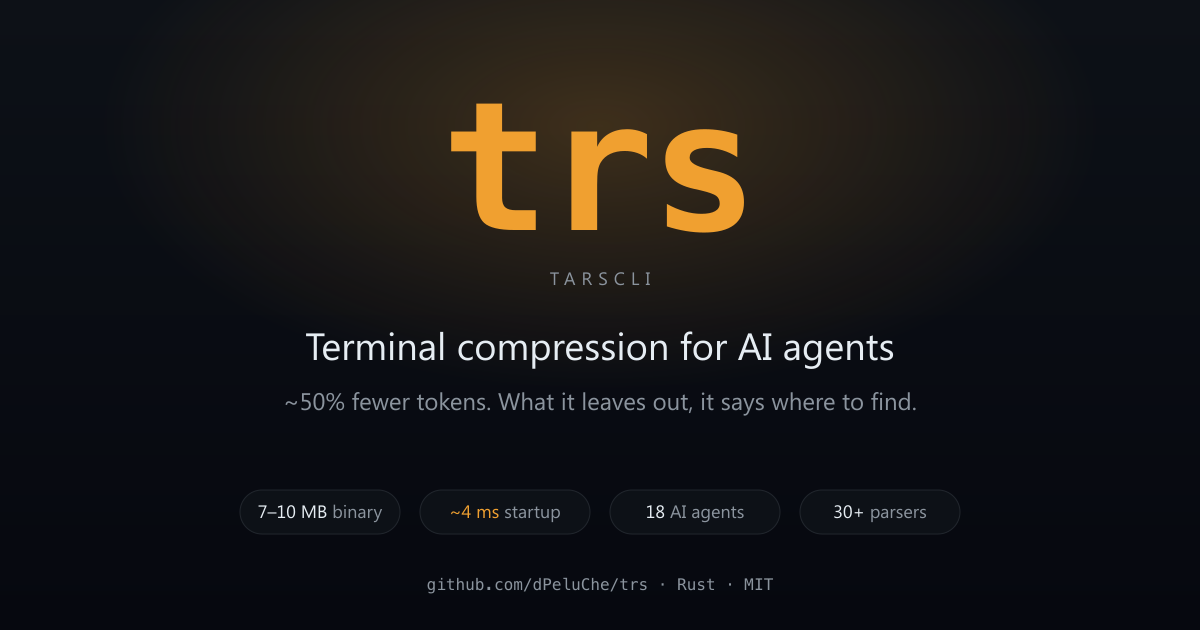
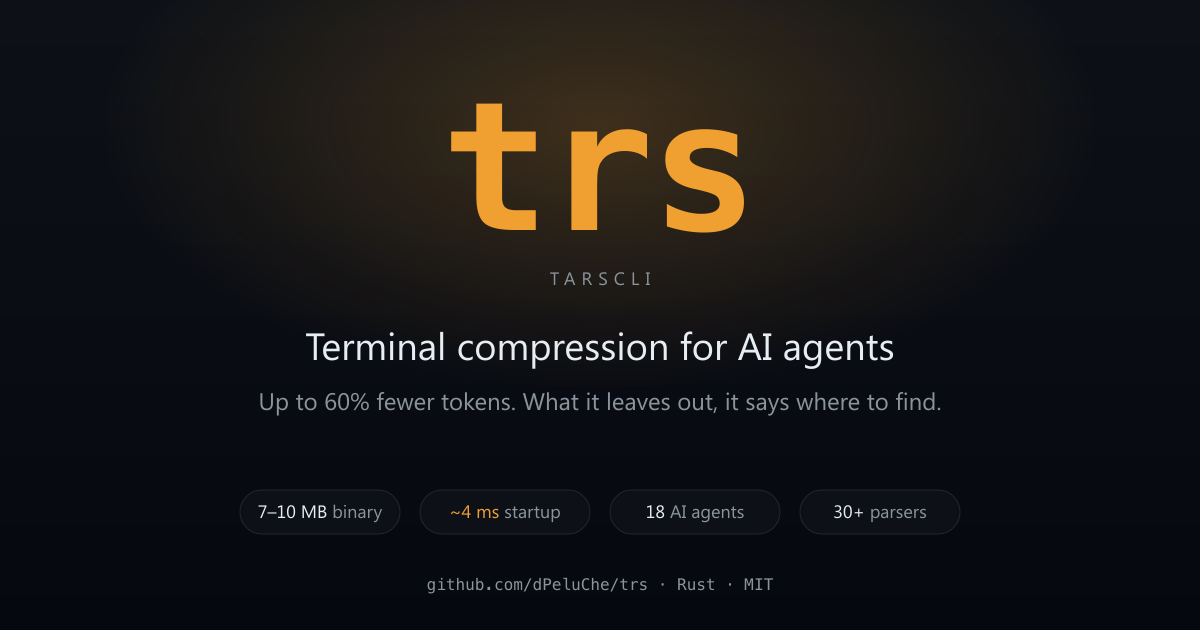
docs: state the savings as a ceiling, up to 60%
Claude-Session: https://claude.ai/code/session_01GkgHj56hmkHb2a1syzJwA7

Changed region(s): [[0.2158, 0.6032, 0.8017, 0.6635]]

diff --git a/docs/index.html b/docs/index.html
@@ -8,7 +8,7 @@
 
   <!-- Primary -->
   <title>trs (Token-Reducing Shell): Terminal compression for AI agents</title>
-  <meta name="description" content="Rust CLI that cuts ~50% of the tokens AI agents spend on terminal output, measured on real sessions. ~4 ms startup, zero Node overhead, install via curl/npm/cargo. Built-in project digest (trs ingest).">
+  <meta name="description" content="Rust CLI that cuts up to 60% of the tokens AI agents spend on terminal output, measured on real sessions. ~4 ms startup, zero Node overhead, install via curl/npm/cargo. Built-in project digest (trs ingest).">
   <meta name="keywords" content="trs, token-reducing shell, terminal, CLI, token reduction, AI agents, Claude Code, Gemini, LLM, compression, ingest, digest, Rust">
   <meta name="author" content="Iteris">
   <link rel="canonical" href="https://usetrs.dev/">
@@ -20,7 +20,7 @@
   <meta property="og:type" content="website">
   <meta property="og:site_name" content="trs (Token-Reducing Shell)">
   <meta property="og:title" content="trs: Terminal compression for AI agents">
-  <meta property="og:description" content="Rust CLI that cuts ~50% of the tokens AI agents spend on terminal output. Single 7-10 MB binary, ~4 ms startup, zero Node overhead. Hooks for Claude Code, Gemini, Cursor, OpenCode, Kilo, Pi, Droid, Codex, VS Code Copilot, Copilot CLI, Devin CLI, OpenClaw, Hermes, Zed, Devin Desktop (ex-Windsurf), Antigravity (IDE + CLI / agy).">
+  <meta property="og:description" content="Rust CLI that cuts up to 60% of the tokens AI agents spend on terminal output. Single 7-10 MB binary, ~4 ms startup, zero Node overhead. Hooks for Claude Code, Gemini, Cursor, OpenCode, Kilo, Pi, Droid, Codex, VS Code Copilot, Copilot CLI, Devin CLI, OpenClaw, Hermes, Zed, Devin Desktop (ex-Windsurf), Antigravity (IDE + CLI / agy).">
   <meta property="og:url" content="https://usetrs.dev/">
   <meta property="og:image" content="https://usetrs.dev/og-image.png">
   <meta property="og:image:alt" content="trs: Terminal compression for AI agents">
@@ -34,7 +34,7 @@
   <meta name="twitter:site" content="@dPeluChe">
   <meta name="twitter:creator" content="@dPeluChe">
   <meta name="twitter:title" content="trs: Terminal compression for AI agents">
-  <meta name="twitter:description" content="Rust CLI that cuts ~50% of the tokens AI agents spend on terminal output. Single 7-10 MB binary, ~4 ms startup.">
+  <meta name="twitter:description" content="Rust CLI that cuts up to 60% of the tokens AI agents spend on terminal output. Single 7-10 MB binary, ~4 ms startup.">
   <meta name="twitter:image" content="https://usetrs.dev/og-image.png">
   <meta name="twitter:image:alt" content="trs: Terminal compression for AI agents">
 
@@ -53,7 +53,7 @@
     "@type": "SoftwareApplication",
     "name": "trs (Token-Reducing Shell)",
     "alternateName": "trs",
-    "description": "Rust CLI that cuts ~50% of the tokens AI agents spend on terminal output, measured on real sessions. Native binary with parsers for git, cargo, npm, go, docker, gh, pytest, jest and more. Ships project digest via trs ingest.",
+    "description": "Rust CLI that cuts up to 60% of the tokens AI agents spend on terminal output, measured on real sessions. Native binary with parsers for git, cargo, npm, go, docker, gh, pytest, jest and more. Ships project digest via trs ingest.",
     "url": "https://usetrs.dev/",
     "applicationCategory": "DeveloperApplication",
     "operatingSystem": "macOS, Linux, Windows",
@@ -704,7 +704,7 @@
 
     <div class="hero-tagline">
       Terminal compression for AI agents.
-      <span class="muted">~50% fewer tokens on real agent commands. What it leaves out, it says where to find.</span>
+      <span class="muted">Up to 60% fewer tokens on real agent commands. What it leaves out, it says where to find.</span>
     </div>
 
     <div class="hero-cta">
@@ -1262,8 +1262,9 @@ commit 5e4a745d1f2ee6ec3a871dffdade1c2a9aaf69d5
   <div class="container">
     <h2>Compression reference</h2>
     <p class="section-intro">
-      The ~50% comes from real use: 58% over 84,325 commands since April, and
-      24% to 48% in recent windows, so it varies with what you run. The table
+      The 60% is a ceiling from real use: 58% over 84,325 commands since April,
+      24% to 48% in recent windows. It counts the output trs handles, not your
+      whole bill, and it varies with what you run. The table
       is a fixed benchmark of 38 command shapes taken
       from real agent sessions (trs v0.9.0, tokens counted with
       <code class="inline">o200k_base</code>).
@@ -1305,7 +1306,7 @@ commit 5e4a745d1f2ee6ec3a871dffdade1c2a9aaf69d5
         <div class="label">Node overhead (shell launcher)</div>
       </div>
       <div class="bench-card">
-        <div class="num">~50%</div>
+        <div class="num">&le;60%</div>
         <div class="label">fewer tokens on real agent commands</div>
       </div>
       <div class="bench-card">

diff --git a/docs/development/benchmarks/README.md b/docs/development/benchmarks/README.md
@@ -232,7 +232,7 @@ Read by eye before trusting a cell:
 | median command | 29% | |
 | commands cut by half or more | 11 of 38 | |
 
-### The ~50% on usetrs.dev
+### The "up to 60%" on usetrs.dev
 
 The site said ~70% until v0.8.10. That came from 2026-10-21 data, before `trs
 stats` left failed runs and outputs over 30 KB out of its totals. Measured
@@ -246,8 +246,9 @@ again on 2026-11-04, from the author's history:
 | 7 days | 1,370 | 35% |
 
 The windows swing with the work: a month of low-output commands saves little.
-~50% is the round figure for the history; quote the table above for a given
-command. With oversized outputs counted back in, 30 days is 58%, but a few
+"Up to 60%" is a ceiling from the history, on the output trs handles, not on
+the bill: see [`output-cost-findings.md`](../output-cost-findings.md). Quote the
+table above for a given command. With oversized outputs counted back in, 30 days is 58%, but a few
 huge outputs carry that number.
 
 ## trs alone on v0.8.9

diff --git a/AGENTS.md b/AGENTS.md
@@ -3,7 +3,7 @@
 ## What is trs
 
 A Rust CLI that transforms noisy terminal output into compact, structured signal.
-Cuts ~50% of the tokens AI agents spend on terminal output, measured on real sessions (see docs/development/benchmarks/).
+Cuts up to 60% of the tokens AI agents spend on terminal output, measured on real sessions (see docs/development/benchmarks/).
 
 ## Pre-generated codebase digest
 

diff --git a/npm/README.md b/npm/README.md
@@ -3,7 +3,7 @@
 Transform noisy terminal output into compact, structured signal.
 A CLI toolkit for developers, automation pipelines, and AI agents.
 
-**~50% fewer tokens on real agent commands.** What it leaves out, it says where to find.
+**Up to 60% fewer tokens on real agent commands.** What it leaves out, it says where to find.
 
 ## Install
 
